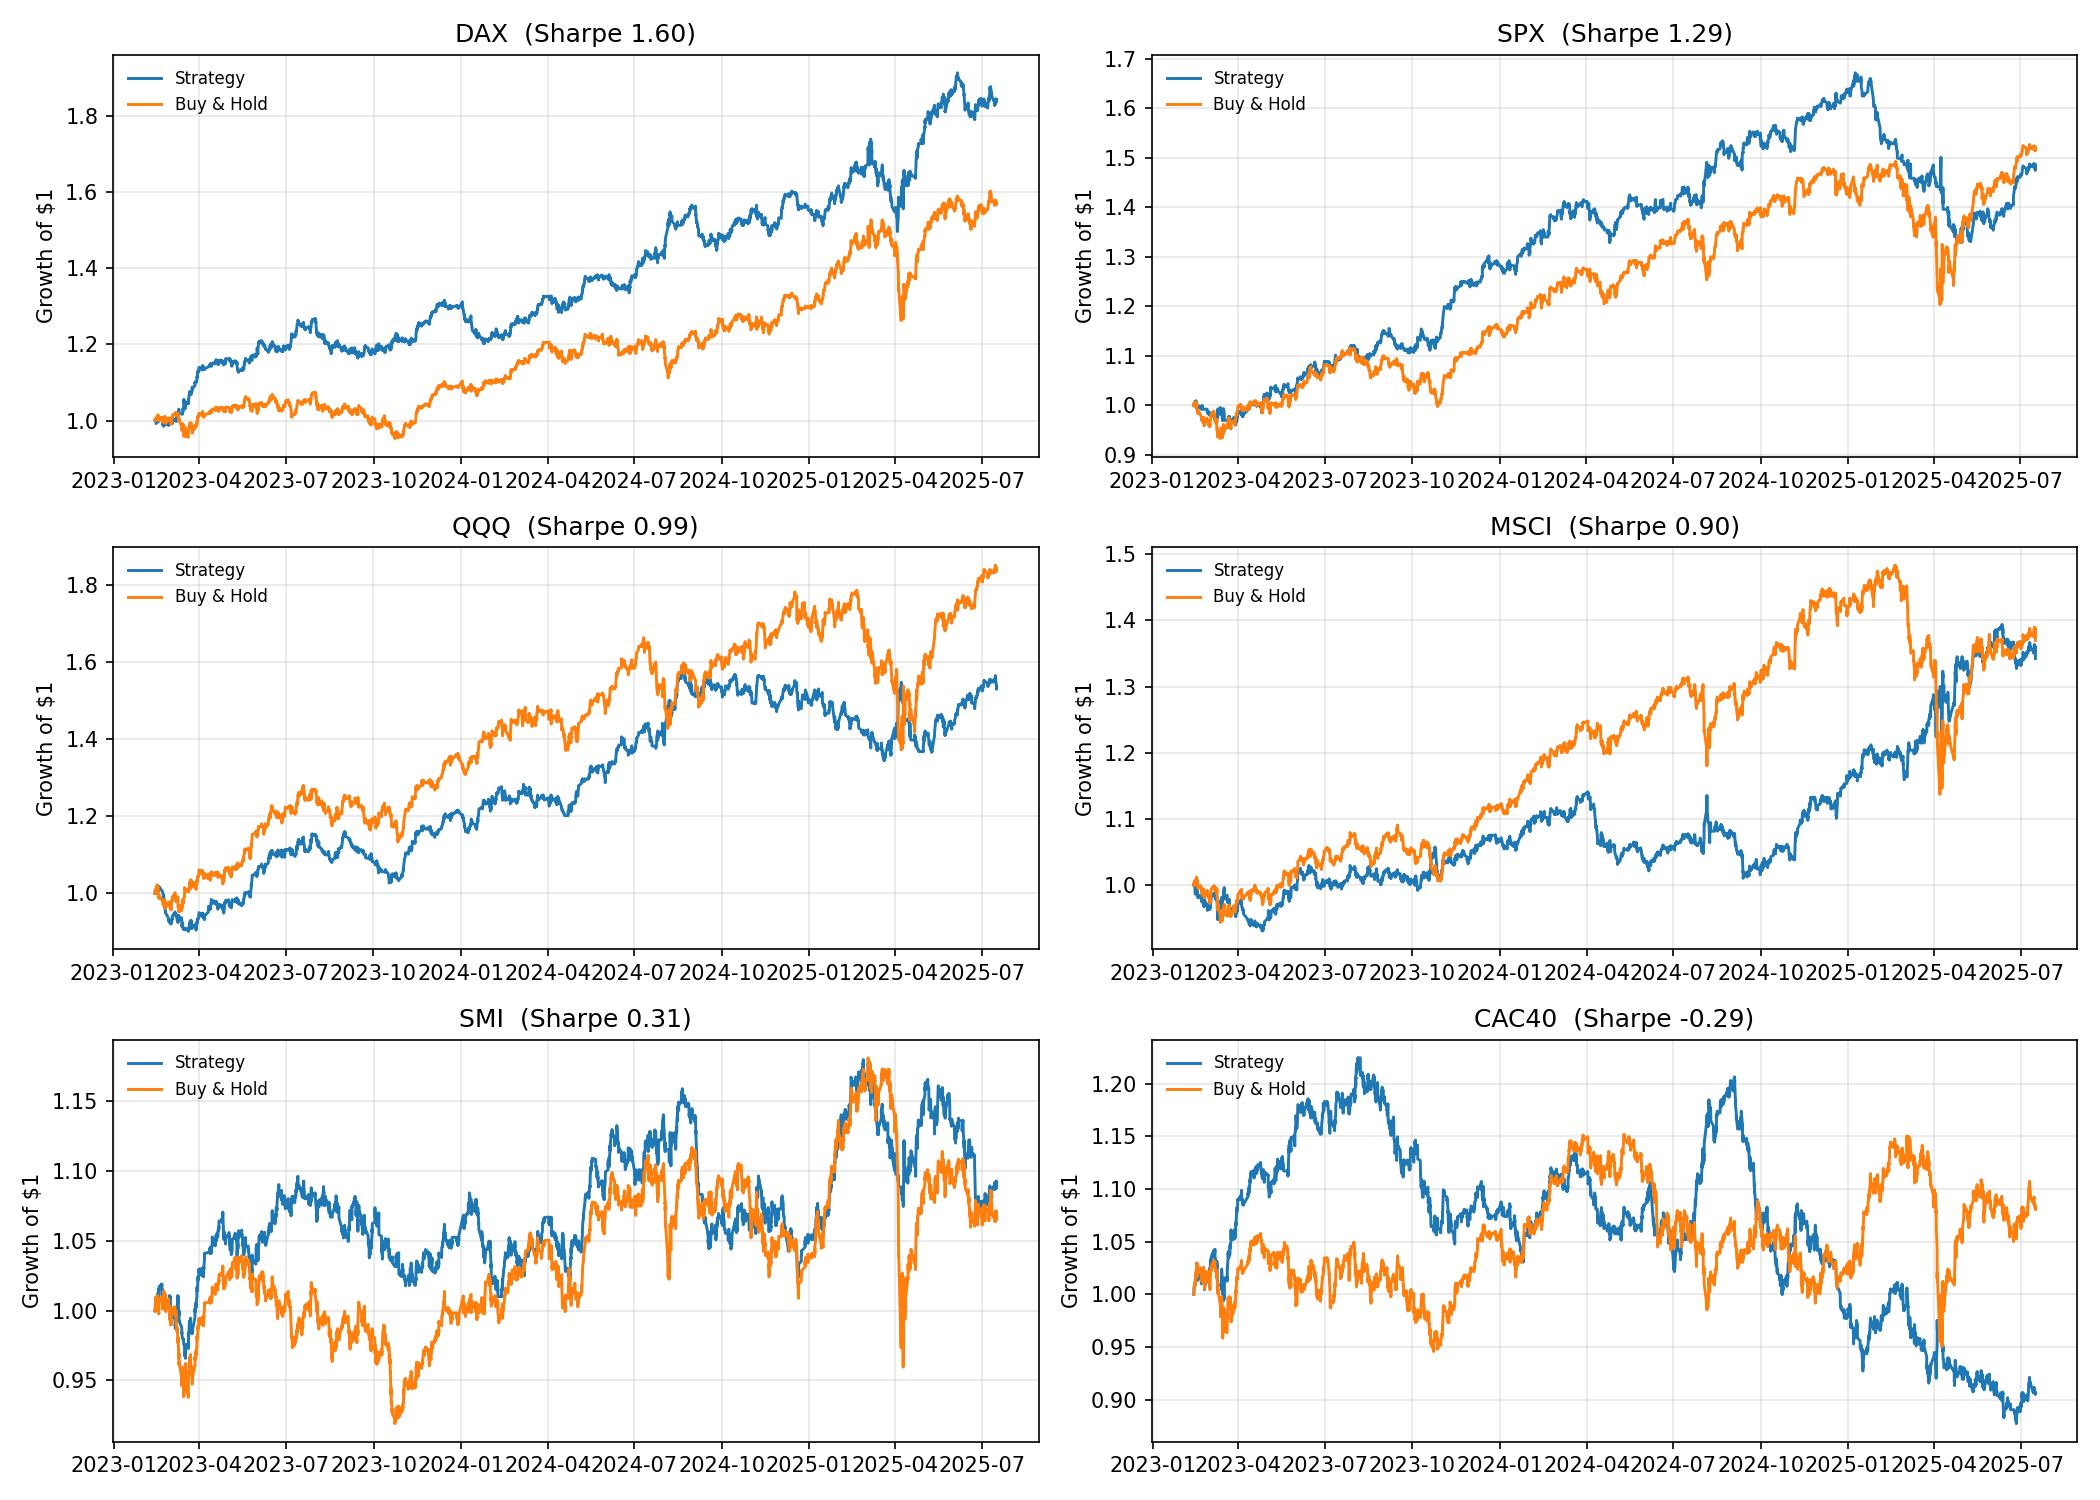
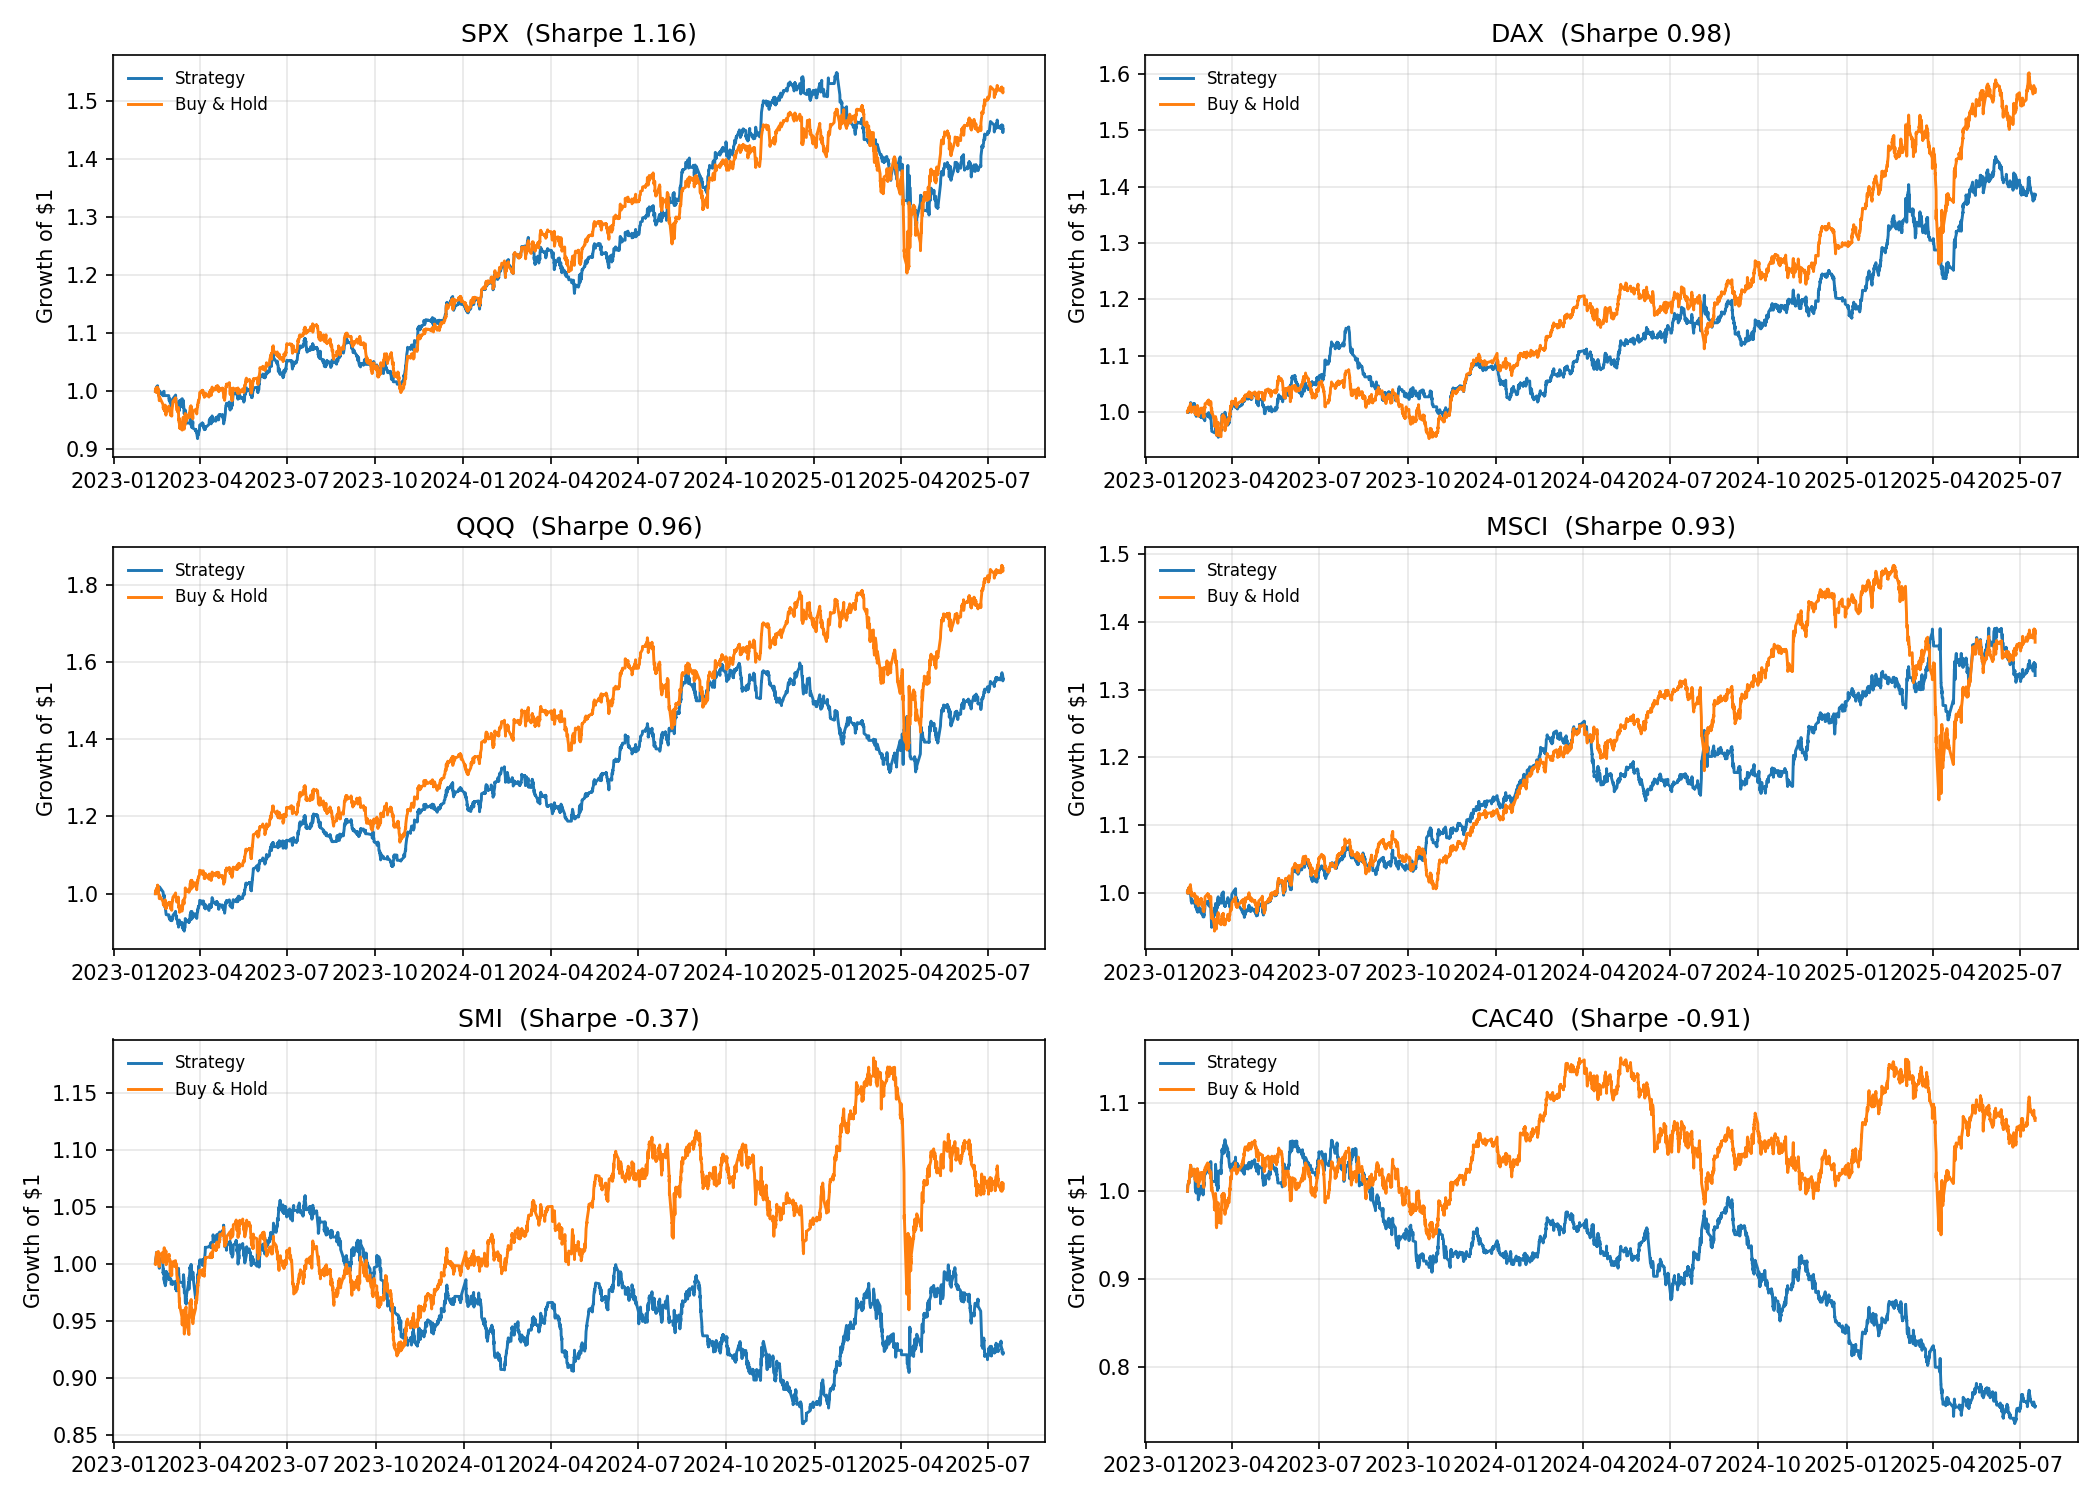
readme (pas fini)

diff --git a/Optimisation/opti5robust.py b/Optimisation/opti5robust.py
@@ -14,7 +14,6 @@ SL_GRID = [round(x, 5) for x in np.linspace(0.0001, 0.0200, int((0.0200 - 0.0001
 
 # ---------- Data Loading ----------
 CSV_PATH = "CSV_files/BATS_QQQ, 60_a45be.csv"
-CSV_PATH = "CSV_files/SIX_DLY_SMI, 60_2d252.csv"
 full_df = pd.read_csv(CSV_PATH)
 full_df['time'] = pd.to_datetime(full_df['time'].astype(int), unit='s', utc=True)
 full_df.set_index('time', inplace=True)
@@ -25,7 +24,7 @@ full_df = full_df.rename(columns={
 full_df = full_df.dropna(subset=['Open','High','Low','Close'])
 
 # ---------- Slices ----------
-TRAIN_START = "2017-12-17"
+TRAIN_START = "2014-12-17"
 TRAIN_END   = "2020-12-31"   # inclusive
 VAL_START   = "2021-01-01"
 VAL_END     = "2022-12-31"   # inclusive
@@ -193,13 +192,13 @@ def robust_score(stats) -> float:
     trade_factor = min(1.0, n_trades / 100.0)
 
     # --- Components per spec ---
-    s_sharpe   = 0.25 * squash(sharpe, 2.0)
-    s_sortino  = 0.35 * squash(sortino, 2.0)
-    s_calmar   = 0.25 * squash(calmar, 3.0)
+    s_sharpe   = 0.3 * squash(sharpe, 2.0)
+    s_sortino  = 0.55 * squash(sortino, 2.0)
+    # s_calmar   = 0.25 * squash(calmar, 3.0)
     p_dd       = 0.10 * squash((max_dd_pct or 0.0) / 100.0, 0.20)    # DD normalized to 0–1 by 100%
     p_tail     = 0.05 * squash((left_tail or 0.0) / 100.0, 0.03)     # Tail as percent
 
-    score = trade_factor * (s_sharpe + s_sortino + s_calmar) - (p_dd + p_tail)
+    score = trade_factor * (s_sharpe + s_sortino) - (p_dd + p_tail)
 
     # (Optional) light complexity penalty to de-prefer overlong signals
     try:

diff --git a/Strategy/backtest_six_etfs.py b/Strategy/backtest_six_etfs.py
@@ -31,7 +31,7 @@ ASSETS = {
 
 # picked params
 PARAMS = {'sl_pct': 0.00521, 'n_fast': 14, 'n_slow': 49, 'n_vslow': 65, 'sig_len': 10}
-PARAMS = {'sl_pct': 0.00421, 'n_fast': 9, 'n_slow': 20, 'n_vslow': 84, 'sig_len': 7}
+PARAMS = {'sl_pct': 0.00421, 'n_fast': 18, 'n_slow': 43, 'n_vslow': 51, 'sig_len': 21}
 
 # ---------- Helpers ----------
 def load_csv_ohlcv(path, start=START, end_excl=CUTOFF):
